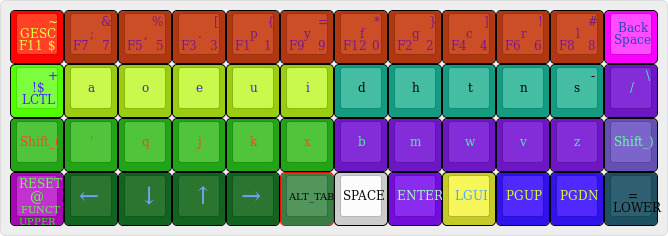
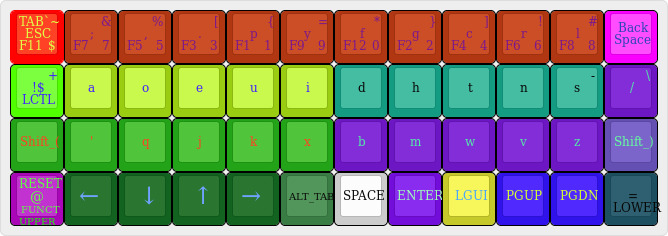
Updated layout.jpg

diff --git a/keymap.c b/keymap.c
@@ -115,7 +115,7 @@ const uint16_t PROGMEM keymaps[][MATRIX_ROWS][MATRIX_COLS] = {
    	),
 	
 	[_UPPER] = LAYOUT_planck_grid(
-		KC_TILD, KC_AMPR, KC_PERC, KC_LBRC, KC_LCBR, KC_EQL, KC_ASTR, KC_RCBR, KC_RBRC, KC_EXLM, KC_HASH, KC_TRNS,
+		KC_GRAVE, KC_AMPR, KC_PERC, KC_LBRC, KC_LCBR, KC_EQL, KC_ASTR, KC_RCBR, KC_RBRC, KC_EXLM, KC_HASH, KC_TRNS,
 		KC_PLUS, KC_NO, KC_NO, KC_NO, KC_NO, KC_NO, KC_NO, KC_NO, KC_NO, KC_NO, KC_MINUS, KC_BSLASH, 
 		KC_TRNS, KC_NO, KC_NO, KC_NO, KC_NO, KC_NO, KC_NO, KC_NO, KC_NO, KC_NO, KC_NO, KC_NO,
 		KC_TRNS, KC_NO, KC_NO, KC_NO, KC_NO, KC_NO, KC_NO, KC_NO, KC_NO, KC_NO, KC_NO, KC_TRNS

diff --git a/config.h b/config.h
@@ -1,5 +1,8 @@
 #pragma once
 
+#define DEVICE_VER	0x0004
+
+
 #ifdef AUDIO_ENABLE
 	#define STARTUP_SONG SONG(RICK_ROLL)
 	
